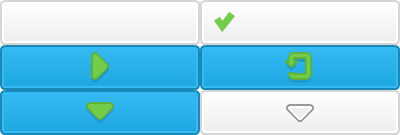
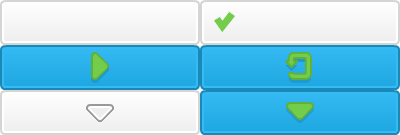
Еhe beginning of architecture - 1.2

diff --git a/menu.py b/menu.py
@@ -5,13 +5,11 @@ import btn
 
 
 class Menu(pygame.sprite.Sprite):
-    def __init__(self, group_sprites):
+    def __init__(self, group_sprites, game):
         super().__init__(group_sprites)
         self.status_menu = 'full'
-        self.size = settings.WIN_WIDTH, settings.WIN_HEIGHT
         self.image = pygame.Surface((settings.WIN_WIDTH, settings.WIN_HEIGHT))
         self.rect = self.image.get_rect()
-
 
         self.menu_buttons = pygame.sprite.Group()
 
@@ -19,8 +17,38 @@ class Menu(pygame.sprite.Sprite):
 
     def create_menu(self):
         """Построение элементов в меню"""
-        self.image.fill('grey')
-        btn.Button_menu(self.menu_buttons, 200, 300, "3 - 3", "btn_focus_off", )
+
+        self.image.fill(settings.bg_color)
+        center_x, center_y = settings.WIN_WIDTH // 2, settings.WIN_HEIGHT // 2
+
+        font = pygame.font.Font("font/kenvector_future.ttf", 90)
+
+        shift = font.render("shift", True, settings.text_not_active_color)
+        turn = font.render("turn", True, settings.text_not_active_color)
+        self.image.blit(shift, (center_x - 460, center_y + 250))
+        self.image.blit(turn, (center_x + 140, center_y + 250))
+
+        shadow = pygame.Surface((1, 10)).convert_alpha()
+        image_shadow = pygame.image.load(f"img/{settings.skin}/shadow.png")
+        shadow.blit(image_shadow, (0, 0))
+        shadow = pygame.transform.scale(shadow, (settings.WIN_WIDTH, 10))
+        self.image.blit(shadow, (0, settings.WIN_HEIGHT - 10))
+
+        btn.Button_menu(self.menu_buttons, "size3", center_x - 230 * 2, center_y - 75, "3 - 3", "btn_setup", True)
+        btn.Button_menu(self.menu_buttons, "size5", center_x - 230, center_y - 75, "5 - 5", "btn_setup", active=False)
+        btn.Button_menu(self.menu_buttons, "size7", center_x, center_y - 75, "7 - 7", "btn_setup", active=False)
+
+        btn.Button_menu(self.menu_buttons, "color2", center_x - 230 * 2, center_y, "2..", "btn_setup", True)
+        btn.Button_menu(self.menu_buttons, "color3", center_x - 230, center_y, "3...", "btn_setup")
+        btn.Button_menu(self.menu_buttons, "color4", center_x, center_y, "4....", "btn_setup")
+
+        btn.Button_menu(self.menu_buttons, "level10", center_x - 230 * 2, center_y + 75, ".-", "btn_setup", True)
+        btn.Button_menu(self.menu_buttons, "level20", center_x - 230, center_y + 75, ".-..-", "btn_setup")
+        btn.Button_menu(self.menu_buttons, "level30", center_x, center_y + 75, ".-..--..-", "btn_setup")
+
+        btn.Button_menu(self.menu_buttons, "start", center_x + 350, center_y, "", "btn_run_game")
+        btn.Button_menu(self.menu_buttons, "return", center_x + 350, center_y + 75, "", "btn_return_game")
+
         self.rect.bottom = int(settings.WIN_HEIGHT * 0.85)
 
         self.menu_buttons.draw(self.image)
@@ -40,10 +68,6 @@ class Menu(pygame.sprite.Sprite):
             self.rect.bottom = int(settings.WIN_HEIGHT * 0.15)
             self.status_menu = 'mini'
 
-    def on_click(self):
+    def on_click(self, mouse_pos):
         """Обрабатывает нажатие мыши на объекты меню"""
-        pass
-
-    def get_click(self, mouse_pos):
-        """Возвращает код нажатого (динамического) объекта"""
         pass

diff --git a/btn.py b/btn.py
@@ -6,27 +6,45 @@ import settings
 class Button_menu(pygame.sprite.Sprite):
     image_btn = pygame.image.load(f"img/{settings.skin}/button_menu.png")
 
-    def __init__(self, group_sprites, x, y, name, option, focus=False, active=True):
+    def __init__(self, group_sprites, return_code, position_x, position_y, text, option, focus=False, active=True):
         super().__init__(group_sprites)
-        self.x, self.y = x, y
-        self.name = name
+        self.return_code = return_code
+        self.x, self.y = position_x, position_y
+        self.text = text
         self.option = option
         self.focus = focus
         self.active = active
-        self.image = pygame.Surface((200, 45))
-        self.image.blit(Button_menu.image_btn, (0, 0), settings.button_menu_position[option])
-        self.image.set_colorkey((0, 0, 0))
+        if self.active:
+            self.font_color = settings.text_active_color
+        else:
+            self.font_color = settings.text_not_active_color
+
+        self.draw()
+
+    def draw(self):
+        self.image = pygame.Surface((200, 45)).convert_alpha()
         self.rect = self.image.get_rect()
-        font = pygame.font.Font(settings.font_file, 30)
-        text = font.render(name, True, (30, 167, 225))
-        text_x = 100 - text.get_width() // 2
-        text_y = 22 - text.get_height() // 2
-        self.image.blit(text, (text_x, text_y))
-        self.rect.center = x, y
+
+        self.image.fill(settings.bg_color)
+        self.image.blit(Button_menu.image_btn, (0, 0), settings.button_menu_position[self.option][self.focus])
+
+        font = pygame.font.Font(settings.font_file, settings.font_size)
+        text = font.render(self.text, True, self.font_color)
+        self.image.blit(text, (100 - text.get_width() // 2, 22 - text.get_height() // 2))
+
+        self.rect.center = self.x, self.y
+
+    def change_focus(self):
+        self.focus = False if self.focus else True
+
+    def get_focus(self):
+        return self.focus
 
     def on_click(self):
-        status = None
-        return status, self.name
+        if self.active:
+            click = None
+            return click, self.return_code
+        return None
 
 
 class Button_game(pygame.sprite.Sprite):

diff --git a/settings.py b/settings.py
@@ -5,10 +5,17 @@ WIN_WIDTH = 1280
 WIN_HEIGHT = 720
 FPS = 60
 
-font_file = "font/kenvector_future.ttf"
 
 # img/папка с изображениями
 skin = "skin_rock"
+# цвет фона
+bg_color = (238, 238, 238)
+
+# настройки шрифта
+font_file = "font/kenvector_future.ttf"
+font_size = 24
+text_active_color = (30, 167, 225)
+text_not_active_color = (159, 159, 159)
 
 # изображения центрального бокса с ходами и звездами
 box_stars_image = {0: "box_stars_0.png",
@@ -26,10 +33,7 @@ tile_image = {"blue": "tile_blue_64.png",
 
 # изображение кнопок меню и их позиционирование
 button_menu_image = "button_menu.png"
-button_menu_position = {"btn_focus_off": (0, 0, 200, 45),
-                        "btn_focus_on": (200, 0, 200, 45),
-                        "btn_start_game": (0, 45, 200, 45),
-                        "btn_restart_game": (200, 45, 200, 45),
-                        "btn_return_on": (0, 90, 200, 45),
-                        "btn_return_off": (200, 90, 200, 45)
+button_menu_position = {"btn_setup": [(0, 0, 200, 45), (200, 0, 200, 45)],
+                        "btn_run_game": [(0, 45, 200, 45), (200, 45, 200, 45)],
+                        "btn_return_game": [(0, 90, 200, 45), (200, 90, 200, 45)]
                         }

diff --git a/main.py b/main.py
@@ -9,16 +9,17 @@ from game import Game
 if __name__ == '__main__':
     pygame.init()
     pygame.display.set_caption('shift_turn')
+    pygame.display.set_icon(pygame.image.load('shift-turn.png'))
     size = settings.WIN_WIDTH, settings.WIN_HEIGHT
     window = pygame.display.set_mode(size)
 
     game = Game()
 
     menu_sprites = pygame.sprite.Group()
-    menu = Menu(menu_sprites)
+    menu = Menu(menu_sprites, game)
 
     board_sprites = pygame.sprite.Group()
-    board = Board(window)
+    board = Board(window, game)
 
     clock = pygame.time.Clock()
     RUNNING = True
@@ -41,8 +42,11 @@ if __name__ == '__main__':
                     pass
             if event.type == pygame.KEYUP:
                 pass
-            if event.type == pygame.MOUSEBUTTONDOWN:
-                pass
+            if event.type == pygame.MOUSEBUTTONDOWN and event.button == 1:
+                if menu.status() == 'full':
+                    menu.on_click(event.pos)
+                else:
+                    board.on_click(event.pos)
             if event.type == pygame.MOUSEBUTTONUP:
                 pass
             if event.type == pygame.MOUSEMOTION:

diff --git a/board.py b/board.py
@@ -6,7 +6,7 @@ import btn
 
 
 class Board:
-    def __init__(self, window):
+    def __init__(self, window, game):
         pass
 
     def create_tables(self, size):
@@ -35,9 +35,9 @@ class Board:
         """Отрисовка всего игрового поля"""
         pass
 
-    def on_click(self):
+    def on_click(self, pos):
         """Обрабатывает нажатие мыши на объекты меню"""
-        pass
+        print("board_click")
 
     def get_click(self, mouse_pos):
         """Возвращает код нажатого (динамического) объекта"""

diff --git a/game.py b/game.py
@@ -27,7 +27,7 @@ class Game:
     colors = ['grey', 'blue', 'green', 'red', 'yellow']
 
     def __init__(self):
-        self.GAME = False
+        self.RUN_GAME = False
         self.matrix_size = 3
         self.color_number = 2
         self.level = 1
@@ -37,7 +37,7 @@ class Game:
         pass
 
     def run(self):
-        self.GAME = True
+        self.RUN_GAME = True
 
     def status(self):
-        return self.GAME
+        return self.RUN_GAME
